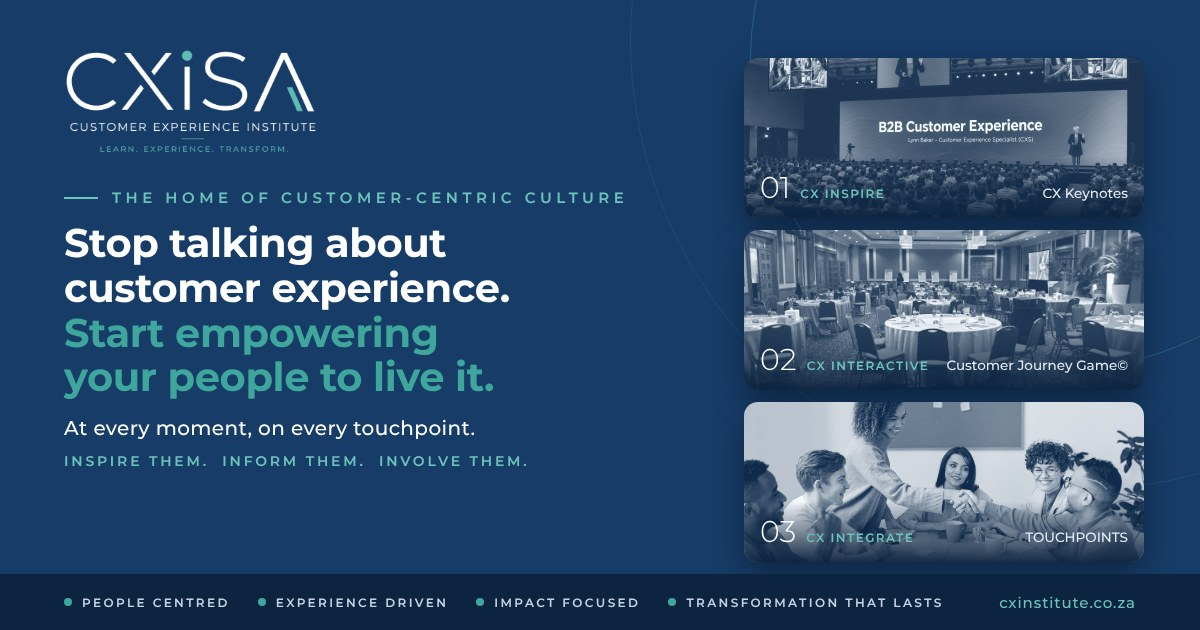
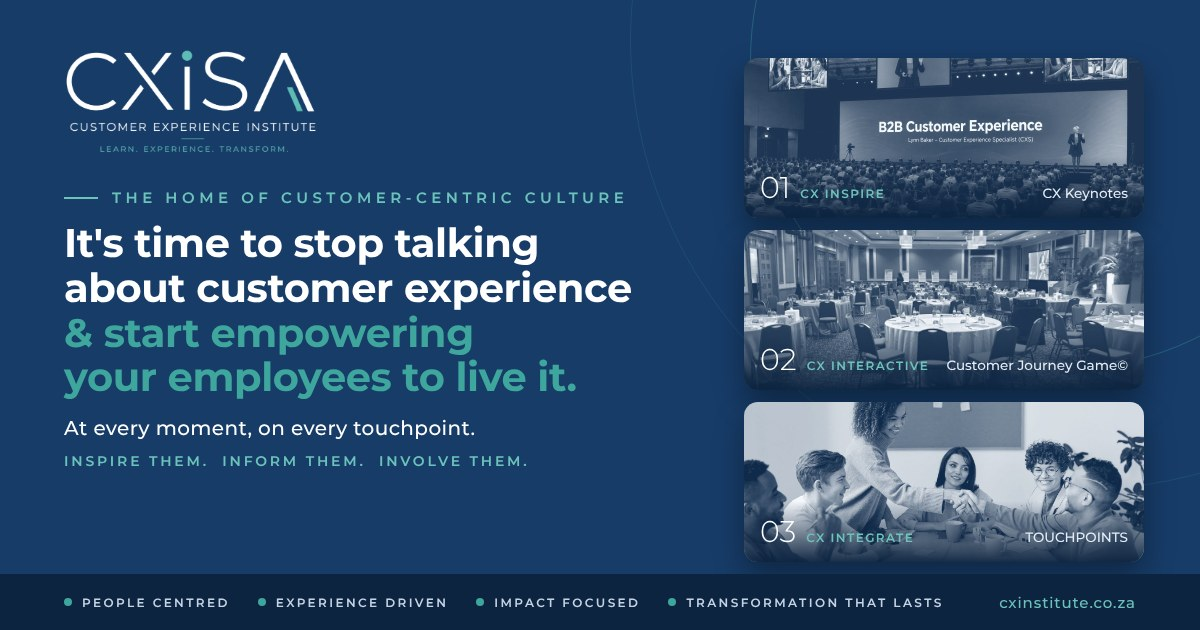
Softer headline: It's time to stop talking about customer experience
"It's time to stop talking about customer experience & start empowering
your employees to live it." on the hero, page meta, share image and
email signature.

Claude-Session: https://claude.ai/code/session_01SqRi7834NSFcoj79pzUNNv

Changed region(s): [[0.0308, 0.3619, 0.5242, 0.4825], [0.0308, 0.5127, 0.4933, 0.6333]]

diff --git a/public/index.html b/public/index.html
@@ -3,12 +3,12 @@
 <head>
   <meta charset="utf-8">
   <meta name="viewport" content="width=device-width, initial-scale=1">
-  <title>CX Institute SA | Stop talking about customer experience. Start empowering your people to live it.</title>
-  <meta name="description" content="Stop talking about customer experience. Start empowering your people to live it. CX Institute SA: Lynn Baker CX keynotes, The Customer Journey Game© and the TOUCHPOINTS programme, built on the Five I's of Employee Engagement.">
+  <title>CX Institute SA | It&#39;s time to stop talking about customer experience &amp; start empowering your employees to live it.</title>
+  <meta name="description" content="It&#39;s time to stop talking about customer experience &amp; start empowering your employees to live it. CX Institute SA: Lynn Baker CX keynotes, The Customer Journey Game© and the TOUCHPOINTS programme, built on the Five I's of Employee Engagement.">
   <link rel="canonical" href="https://www.cxinstitute.co.za/">
   <meta property="og:site_name" content="CX Institute SA">
   <meta property="og:title" content="CX Institute SA – Learn. Experience. Transform.">
-  <meta property="og:description" content="Stop talking about customer experience. Start empowering your people to live it – at every moment, on every touchpoint. Inspire them. Inform them. Involve them.">
+  <meta property="og:description" content="It&#39;s time to stop talking about customer experience &amp; start empowering your employees to live it – at every moment, on every touchpoint. Inspire them. Inform them. Involve them.">
   <meta property="og:type" content="website">
   <meta property="og:url" content="https://cxinstitute-site.lynn-1fa.workers.dev/">
   <meta property="og:image" content="https://cxinstitute-site.lynn-1fa.workers.dev/assets/img/og-cxinstitute.jpg">
@@ -16,11 +16,11 @@
   <meta property="og:image:type" content="image/jpeg">
   <meta property="og:image:width" content="1200">
   <meta property="og:image:height" content="630">
-  <meta property="og:image:alt" content="CX Institute SA – Stop talking about customer experience. Start empowering your people to live it.">
+  <meta property="og:image:alt" content="CX Institute SA – It&#39;s time to stop talking about customer experience &amp; start empowering your employees to live it.">
   <meta property="og:locale" content="en_ZA">
   <meta name="twitter:card" content="summary_large_image">
   <meta name="twitter:title" content="CX Institute SA – Learn. Experience. Transform.">
-  <meta name="twitter:description" content="Stop talking about customer experience. Start empowering your people to live it – at every moment, on every touchpoint.">
+  <meta name="twitter:description" content="It&#39;s time to stop talking about customer experience &amp; start empowering your employees to live it – at every moment, on every touchpoint.">
   <meta name="twitter:image" content="https://cxinstitute-site.lynn-1fa.workers.dev/assets/img/og-cxinstitute.jpg">
   <meta name="theme-color" content="#173C68">
   <link rel="icon" type="image/png" href="assets/img/favicon.png">
@@ -95,7 +95,7 @@
     <div class="wrap hero-inner">
       <div>
         <p class="eyebrow">The home of customer-centric culture</p>
-        <h1 id="hero-title">Stop talking about customer experience. <span class="hl">Start empowering your people to live it.</span></h1>
+        <h1 id="hero-title">It's time to stop talking about customer experience <span class="hl">&amp; start empowering your employees to live it.</span></h1>
         <p class="hero-sub">At every moment, on every touchpoint.</p>
         <p class="hero-pillars"><span>Inspire them.</span> <span>Inform them.</span> <span>Involve them.</span></p>
         <p class="lead">Inspiring keynotes, immersive experiential learning and a structured programme that builds customer experience into how your people work – every day.</p>

diff --git a/tools/email-signature-template.html b/tools/email-signature-template.html
@@ -48,7 +48,7 @@
   </tr>
   <tr>
     <td colspan="3" style="background:#173C68;padding:10px 16px;">
-      <div style="font-family:Montserrat,Arial,Helvetica,sans-serif;font-size:11.5px;line-height:16px;color:#ffffff;font-weight:600;">Stop talking about customer experience. <span style="color:#6cc3bb;">Start empowering your people to live it.</span></div>
+      <div style="font-family:Montserrat,Arial,Helvetica,sans-serif;font-size:11.5px;line-height:16px;color:#ffffff;font-weight:600;">It's time to stop talking about customer experience <span style="color:#6cc3bb;">&amp; start empowering your employees to live it.</span></div>
     </td>
   </tr>
 </table>

diff --git a/tools/thumbnail/og-cxinstitute.html b/tools/thumbnail/og-cxinstitute.html
@@ -33,7 +33,7 @@ h1 span{color:#3EA69D}
 <div class="left">
   <img class="logo" src="/home/claude/cxinstitute-site/public/assets/img/cxisa-logo-white.png">
   <p class="eyebrow">The home of customer-centric culture</p>
-  <h1>Stop talking about customer experience. <span>Start empowering your people to live it.</span></h1>
+  <h1>It's time to stop talking about customer experience <span>&amp; start empowering your employees to live it.</span></h1>
   <p class="tag">At every moment, on every touchpoint.</p>
   <p class="pill">Inspire them. &nbsp;Inform them. &nbsp;Involve them.</p>
 </div>
